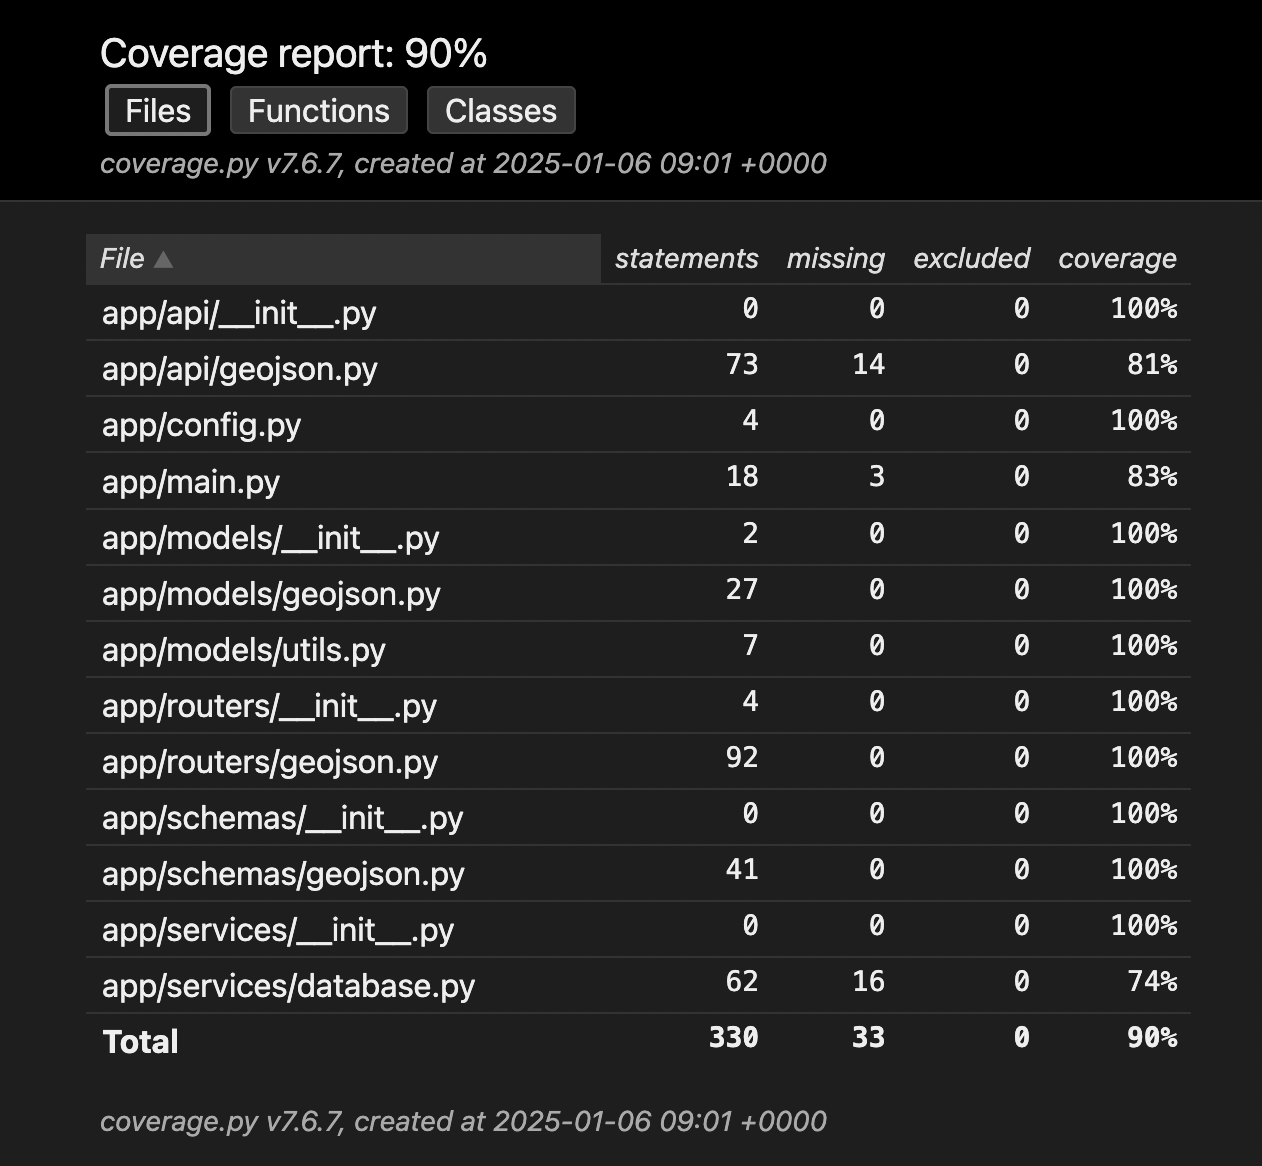
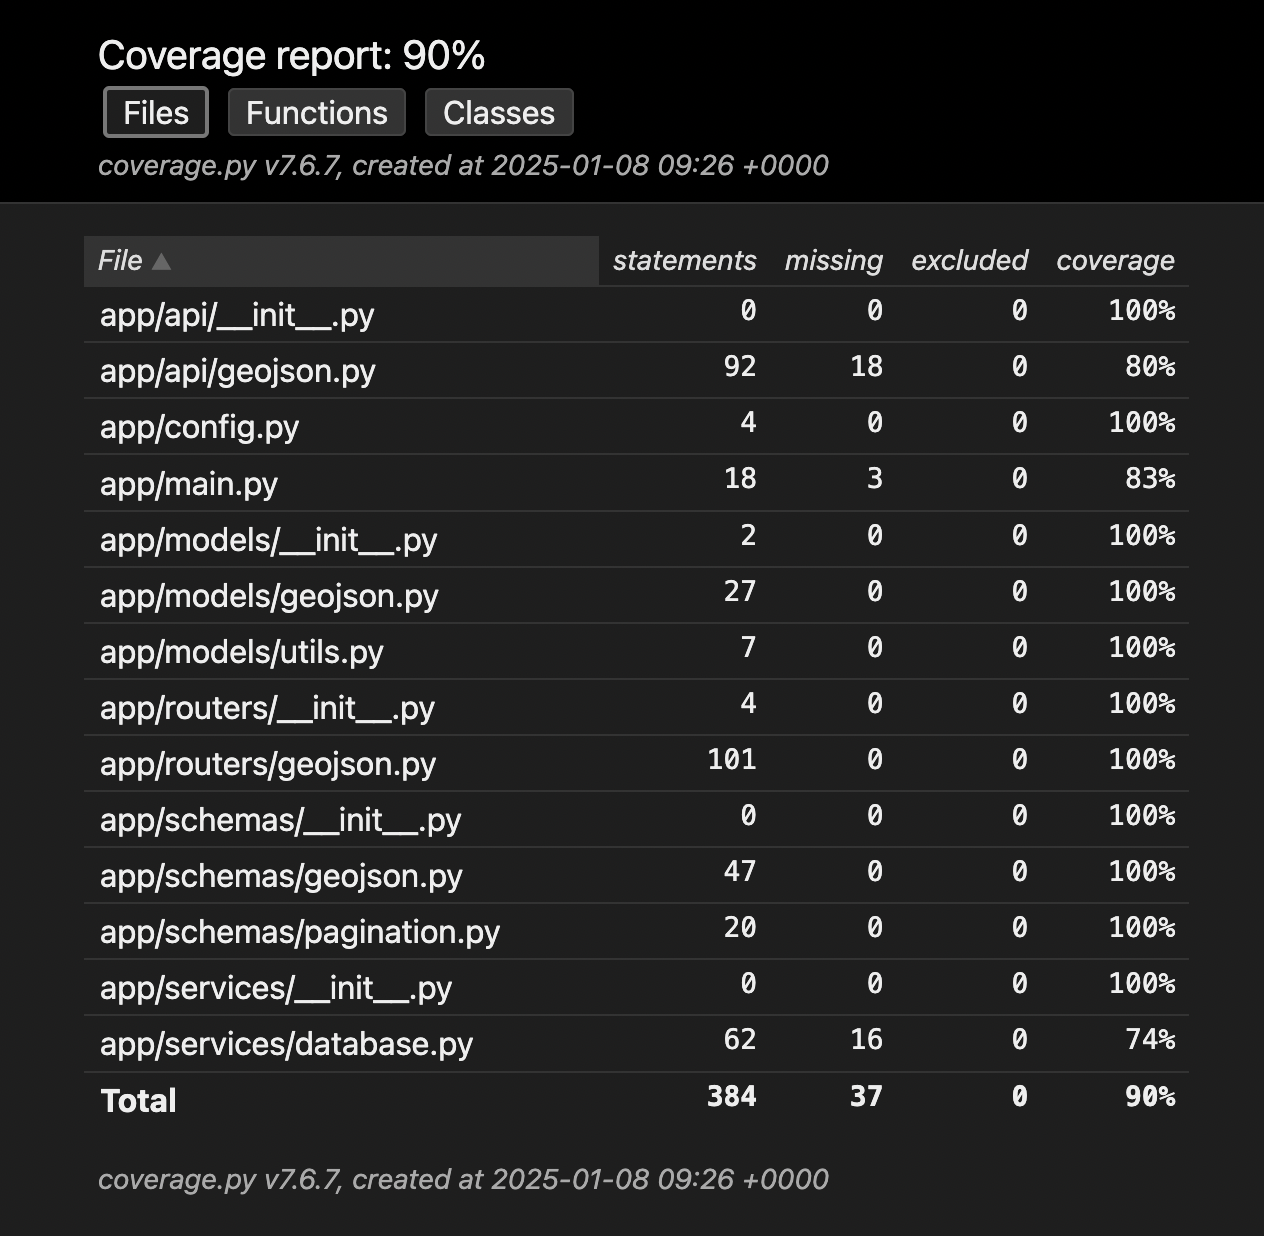
geojson management - added list with pagination endpoint

diff --git a/app/api/geojson.py b/app/api/geojson.py
@@ -66,25 +66,57 @@ def get_features_sql_and_data(
     return {'feature_sql': feature_sql, 'geo_data_values': geo_data_values}
 
 
-
-def fetch_projects_stmt(project_id: Optional[int] = None):
+def fetch_projects_stmt(
+    project_id: Optional[int] = None,
+    page_start: Optional[int] = None,
+    page_end: Optional[int] = None,
+):
     select_stmt = '''
         WITH cte_feat AS (
+    '''
+    if page_start and page_end:
+        '''
+        DENSE_RANK is used to rank projects for pagination.
+
+        project_id cannot be used for filtering for pagination
+        because there can be gaps in data because projects can be deleted.
+
+        Filtering projects in the first CTE allows to limit rows aggregation
+        what will result in faster query.
+        '''
+        select_stmt += '''
+            SELECT * FROM
+            ( SELECT
+                DENSE_RANK() OVER (ORDER BY project_id) as project_rank,
+        '''
+    else:
+        select_stmt += '''
             SELECT
+        '''
+    select_stmt += '''
                 'Feature' AS type,
                 properties::json AS properties,
                 ST_AsGeoJSON(geometry)::json AS geometry,
                 project_id AS project_id
-            FROM features
     '''
     if project_id:
         select_stmt += '''
+            FROM features
             WHERE project_id = :project_id
+        '''
+    elif page_start and page_end:
+        select_stmt += '''
+            FROM features) AS temp_features
+            WHERE project_rank BETWEEN :page_start AND :page_end
+        '''
+    else:
+        select_stmt += '''
+            FROM features
         '''
     select_stmt += '''
         ),
         cte_feat_json AS (
-            SELECT 
+            SELECT
                 p.project_id AS project_id,
                 p.name AS name,
                 p.start_date AS start_date,
@@ -123,7 +155,7 @@ def fetch_projects_stmt(project_id: Optional[int] = None):
             name,
             start_date,
             end_date,
-            COALESCE(description, '') AS description,
+            description,
             created_at,
             updated_at,
             CASE WHEN geo_project_type = 'Feature' THEN
@@ -141,6 +173,15 @@ def fetch_projects_stmt(project_id: Optional[int] = None):
         FROM cte_feat_json
     '''
     return select_stmt
+
+
+async def get_total_and_pages(db_engine: AsyncEngine, size: int) -> tuple[int, int]:
+    async with db_engine.connect() as conn:
+        select_stmt = '''SELECT COUNT(DISTINCT project_id) FROM features'''
+        result = await conn.execute(text(select_stmt))
+        total = result.fetchone()[0]
+        pages = total // size if total % size == 0 else total // size + 1
+        return total, pages
 
 
 async def project_by_unique_index_exists(
@@ -231,7 +272,7 @@ async def read_project_entry(
     project_id: int
 ):
     async with db_engine.connect() as conn:
-        select_stmt = fetch_projects_stmt(project_id)
+        select_stmt = fetch_projects_stmt(project_id=project_id)
         result = await conn.execute(text(select_stmt), {'project_id': project_id})
         return result.fetchone()._asdict()
 
@@ -242,6 +283,20 @@ async def read_project_entries(
     async with db_engine.connect() as conn:
         select_stmt = fetch_projects_stmt()
         result = await conn.execute(text(select_stmt))
+        return result.fetchall()
+
+
+async def read_project_entries_with_pagination(
+    db_engine: AsyncEngine,
+    page_start: int,
+    page_end: int
+):
+    async with db_engine.connect() as conn:
+        select_stmt = fetch_projects_stmt(page_start=page_start, page_end=page_end)
+        result = await conn.execute(
+            text(select_stmt),
+            {"page_start": page_start, "page_end": page_end}
+        )
         return result.fetchall()
 
 

diff --git a/app/routers/geojson.py b/app/routers/geojson.py
@@ -2,7 +2,6 @@ import json
 
 from fastapi import APIRouter, Depends, File, Query, UploadFile, status
 from fastapi.responses import JSONResponse
-from geojson_pydantic import Feature, FeatureCollection
 from sqlalchemy.ext.asyncio import AsyncSession, AsyncEngine
 from pydantic import ValidationError
 from typing import Annotated, Union
@@ -11,8 +10,10 @@ from app.api.geojson import (
     fetch_project_by_id,
     get_geo_data_from_feature,
     get_geo_data_from_feature_collection,
+    get_total_and_pages,
     project_by_unique_index_exists,
     read_project_entries,
+    read_project_entries_with_pagination,
     read_project_entry,
     update_project_entry,
     delete_project_entry
@@ -25,6 +26,7 @@ from app.schemas.geojson import (
     ProjectUpdateSchema,
     ProjectResponseSchema
 )
+from app.schemas.pagination import PageParams, PagedResponseSchema
 
 
 geojson_router = APIRouter()
@@ -90,7 +92,7 @@ async def create(
     project_id = await create_project_entry(db_engine, project_model, geo_data)
 
     project = await read_project_entry(db_engine, project_id)
-    project = ProjectResponseSchema(**project).model_dump(exclude_none=True)
+    project = ProjectResponseSchema(**project).model_dump()
     return project
 
 @geojson_router.get(
@@ -109,7 +111,7 @@ async def read(
         )
 
     project = await read_project_entry(db_engine, project_id)
-    project = ProjectResponseSchema(**project).model_dump(exclude_none=True)
+    project = ProjectResponseSchema(**project).model_dump()
     return project
 
 
@@ -122,10 +124,44 @@ async def list(
 ):
     projects = await read_project_entries(db_engine)
     response_projects = [
-        ProjectResponseSchema(**project._asdict()).model_dump(exclude_none=True)
+        ProjectResponseSchema(**project._asdict()).model_dump()
         for project in projects
     ]
     return response_projects
+
+
+@geojson_router.get(
+    "/list-with-pagination",
+    status_code=status.HTTP_200_OK
+)
+async def list_with_pagination(
+    db_engine: Annotated[AsyncEngine, Depends(get_db_engine)],
+    page_params: Annotated[PageParams, Query()],
+):
+    page_params = page_params.model_dump()
+    total, pages = await get_total_and_pages(db_engine, page_params["size"])
+    if page_params["page"] > pages:
+        response_data = {
+            "total": total,
+            "pages": pages,
+            "page": page_params["page"],
+            "size": page_params["size"],
+            "projects": []
+        }
+    else:
+        projects = await read_project_entries_with_pagination(
+            db_engine=db_engine,
+            page_start=page_params["page_start"],
+            page_end=page_params["page_end"]
+        )
+        response_data = PagedResponseSchema(
+            total=total,
+            pages=pages,
+            page=page_params["page"],
+            size=page_params["size"],
+            projects=[project._asdict() for project in projects]
+        ).model_dump()
+    return response_data
 
 
 @geojson_router.patch(
@@ -226,7 +262,7 @@ async def update(
     await update_project_entry(db_engine, project_id, project_model, geo_data)
 
     project = await read_project_entry(db_engine, project_id)
-    project = ProjectResponseSchema(**project).model_dump(exclude_none=True)
+    project = ProjectResponseSchema(**project).model_dump()
     return project
 
 

diff --git a/tests/test_geojson_crud.py b/tests/test_geojson_crud.py
@@ -26,7 +26,7 @@ def test_create_user_happy_path(
     assert response_json["start_date"] == date_20250102
     assert response_json["end_date"] == date_20250102
     assert response_json["description"] == "point location description"
-    assert response_json["feature"] == point_feature_dict
+    assert response_json["feature"]["type"] == point_feature_dict["type"]
     assert response_json.get("featurecollection") is None
 
     response = client.get(f"/geojson/read/{response_json['project_id']}")
@@ -84,7 +84,7 @@ def test_create_feature_collection(
     assert response_json["name"] == "feature collection"
     assert response_json["start_date"] == date_20250101
     assert response_json["end_date"] == date_20250103
-    assert response_json["description"] == ""
+    assert response_json["description"] is None
     assert response_json["featurecollection"]["type"] == feature_collection_dict["type"]
     assert response_json.get("feature") is None
 
@@ -231,7 +231,7 @@ def test_update_different_geometries(
     )
     response_json = response.json()
     assert response.status_code == 201
-    assert response_json["description"] == ""
+    assert response_json["description"] is None
     assert response_json["feature"]["type"] == "Feature"
 
     response = client.patch(
@@ -424,3 +424,59 @@ def test_list(
     response = client.get("/geojson/list")
     assert response.status_code == 200
     assert len(response.json()) == 2
+
+
+def test_list_with_pagination(
+    client,
+    date_20250101,
+    date_20250103,
+    point_feature_file
+):
+    response = client.get("/geojson/list-with-pagination", params={"page": 1, "size": 2})
+    assert response.status_code == 200
+    assert response.json() == {
+        "total": 0,
+        "pages": 0,
+        "page": 1,
+        "size": 2,
+        "projects": []
+    }
+
+    for i in range(3):
+        response = client.post(
+            "/geojson/create",
+            params={
+                "name": f"{i}: first point location",
+                "start_date": date_20250101,
+                "end_date": date_20250103,
+            },
+            files={"file": point_feature_file},
+        )
+        assert response.status_code == 201
+
+    response = client.get("/geojson/list-with-pagination", params={"page": 1, "size": 2})
+    assert response.status_code == 200
+    response_json = response.json()
+    assert response_json["total"] == 3
+    assert response_json["pages"] == 2
+    assert response_json["page"] == 1
+    assert response_json["size"] == 2
+    assert len(response_json["projects"]) == 2
+
+    response = client.get("/geojson/list-with-pagination", params={"page": 2, "size": 2})
+    assert response.status_code == 200
+    response_json = response.json()
+    assert response_json["total"] == 3
+    assert response_json["pages"] == 2
+    assert response_json["page"] == 2
+    assert response_json["size"] == 2
+    assert len(response_json["projects"]) == 1
+
+    response = client.get("/geojson/list-with-pagination", params={"page": 3, "size": 2})
+    assert response.status_code == 200
+    response_json = response.json()
+    assert response_json["total"] == 3
+    assert response_json["pages"] == 2
+    assert response_json["page"] == 3
+    assert response_json["size"] == 2
+    assert response_json["projects"] == []

diff --git a/app/schemas/geojson.py b/app/schemas/geojson.py
@@ -28,6 +28,7 @@ class ProjectBaseUpdateSchema(BaseModel):
     description: Optional[str] = None
     start_date: Optional[date] = None
     end_date: Optional[date] = None
+
     @model_validator(mode="after")
     def validate_model_after(self) -> Self:
         if self.start_date and self.end_date and self.start_date > self.end_date:
@@ -50,3 +51,10 @@ class ProjectResponseSchema(BaseModel):
     updated_at: datetime
     feature: Optional[Feature] = None
     featurecollection: Optional[FeatureCollection] = None
+
+    @model_validator(mode="after")
+    def validate_model_after(self) -> Self:
+        for field in ["feature", "featurecollection"]:
+            if getattr(self, field) is None:
+                delattr(self, field)
+        return self

diff --git a/app/schemas/pagination.py b/app/schemas/pagination.py
@@ -1,0 +1,26 @@
+from typing import List
+from pydantic import BaseModel, computed_field, conint
+from .geojson import ProjectResponseSchema
+
+
+class PageParams(BaseModel):
+    page: conint(ge=1) = 1
+    size: conint(ge=1, le=100) = 10
+
+    @computed_field
+    @property
+    def page_start(self) -> int:
+        return (self.page - 1) * self.size + 1
+
+    @computed_field
+    @property
+    def page_end(self) -> int:
+        return (self.page - 1) * self.size + self.size
+
+
+class PagedResponseSchema(BaseModel):
+    total: int
+    pages: int
+    page: int
+    size: int
+    projects: List[ProjectResponseSchema]

diff --git a/README.md b/README.md
@@ -21,6 +21,7 @@ Table of Contents
     * [Create examples](#create-examples)
     * [Read example](#read-example)
     * [List example](#list-example)
+    * [List with pagination example](#list-with-pagination-example)
     * [Update example](#update-example)
     * [Delete example](#delete-example)
   * [Bibliography](#bibliography)
@@ -163,6 +164,10 @@ Swagger url: [http://localhost:8001/docs#/](http://localhost:8001/docs#/)
 ### List example
 
 ![List](screenshots/list.png)
+
+### List with pagination example
+
+![List with pagination](screenshots/list_with_pagination.png)
 
 ### Update example
 
